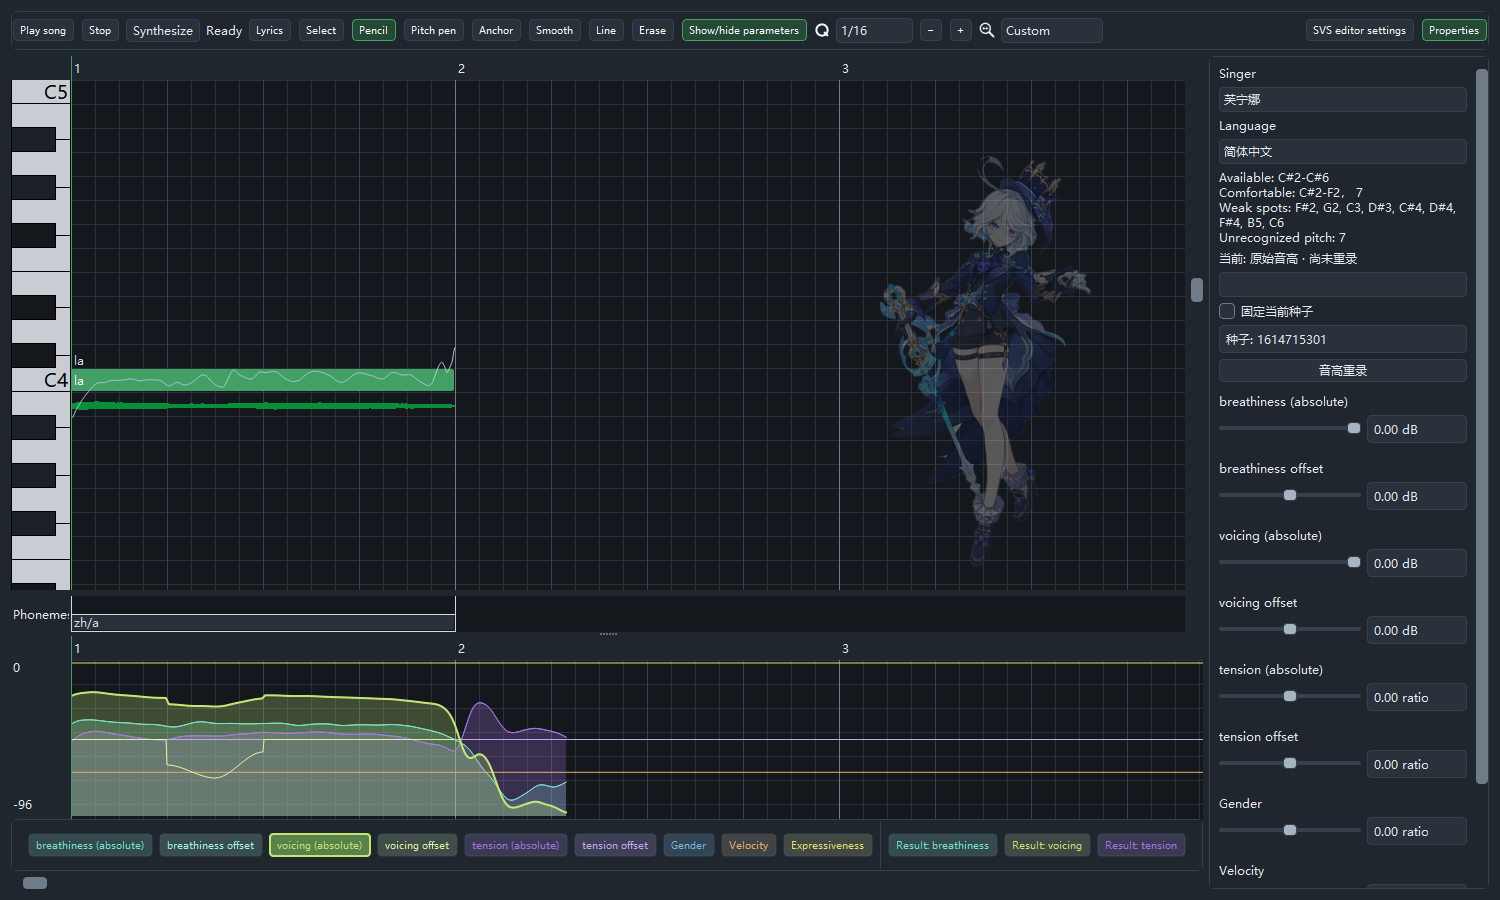
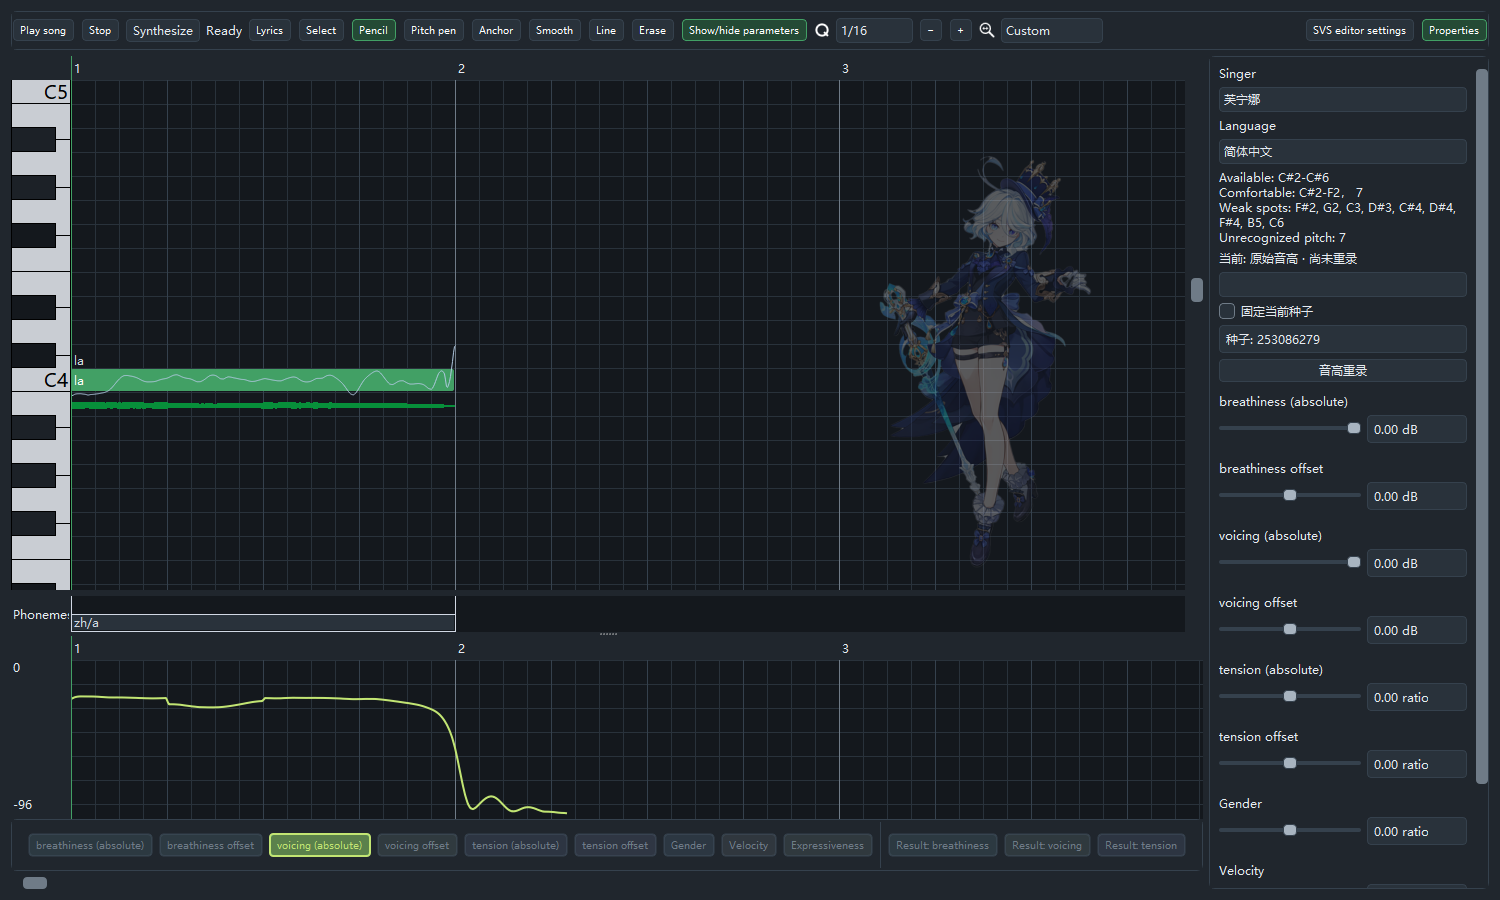
Validate absolute curve defaults without feedback overlays using published plugin

diff --git a/tests/svs/SVSIntegrationTest.cpp b/tests/svs/SVSIntegrationTest.cpp
@@ -4967,17 +4967,17 @@ private slots:
 		QVERIFY(!clip->curves().contains(absoluteId));
 		// Hide other overlays to ensure pixels come from the editable default,
 		// rather than the corresponding read-only line underneath it.
-		auto state = clip->editorState();
-		auto laneStates = state["lanes"].toObject();
 		for (auto* button : editor.findChildren<QToolButton*>())
 		{
 			const auto name = button->objectName();
-			if (name.startsWith("svsParameterTab."))
-				laneStates[name.mid(QString("svsParameterTab.").size())]
-					= QJsonObject{{"visible", name == absoluteTab->objectName()}};
+			if (name.startsWith("svsParameterTab.") && button != absoluteTab)
+			{
+				const auto key = name.mid(QString("svsParameterTab.").size());
+				if (clip->editorState()["lanes"].toObject()[key].toObject()["visible"].toBool(true))
+					QTest::mouseClick(button, Qt::RightButton);
+				QVERIFY(!clip->editorState()["lanes"].toObject()[key].toObject()["visible"].toBool(true));
+			}
 		}
-		state["lanes"] = laneStates;
-		clip->setEditorState(state);
 		QTest::qWait(700);
 		svs::Curve reference;
 		const auto* absolute = track->capabilities().parameter(absoluteId, "clip");

diff --git a/doc/svs/SVS-absolute-reference-defaults-validation.md b/doc/svs/SVS-absolute-reference-defaults-validation.md
@@ -7,3 +7,5 @@ Prediction is a display default, not copied into the editable curve. Drawing int
 Validation on 2026-10-09: `nativePencilCurveRenders`, `segmentedEditedCurveAnchors`, `segmentedPlanDependenciesAndAssembly`, `optimizedTuneLabParameterResetSemantics`: **6 passed, 0 failed, 0 skipped**, including setup/cleanup, 25.3 seconds. Actual Furina voice rendered successfully with Pencil selected. The native test hid all other overlays and checked editable-line pixels at three predicted values, ensuring the result did not accidentally measure the read-only overlay. It verified no default override was stored, hand drawing only covered the requested interval, rendering remained Ready, and right-drag restored prediction. Existing ordinary parameter resets and segmented dependencies also passed.
 
 Visible Windows Qt screenshot: `validation/SVS-absolute-reference-native.png`, inspected for the reference-following default line, Ready status and normal Chinese text. Numerical QWidget pixel checks only supplement this real-window capture. Test windows closed; no offscreen mode used. Built in the existing `build/Release` deployment with foreground PowerShell PTY, SDK environment initialization, Tee logs and exit checks. Concurrent work's root build.log was locked once; the passing run used `doc/svs/validation/build.log` to preserve both logs. Unrelated worktree source edits are excluded from this commit.
+
[1 lines of base64/hex data omitted]
